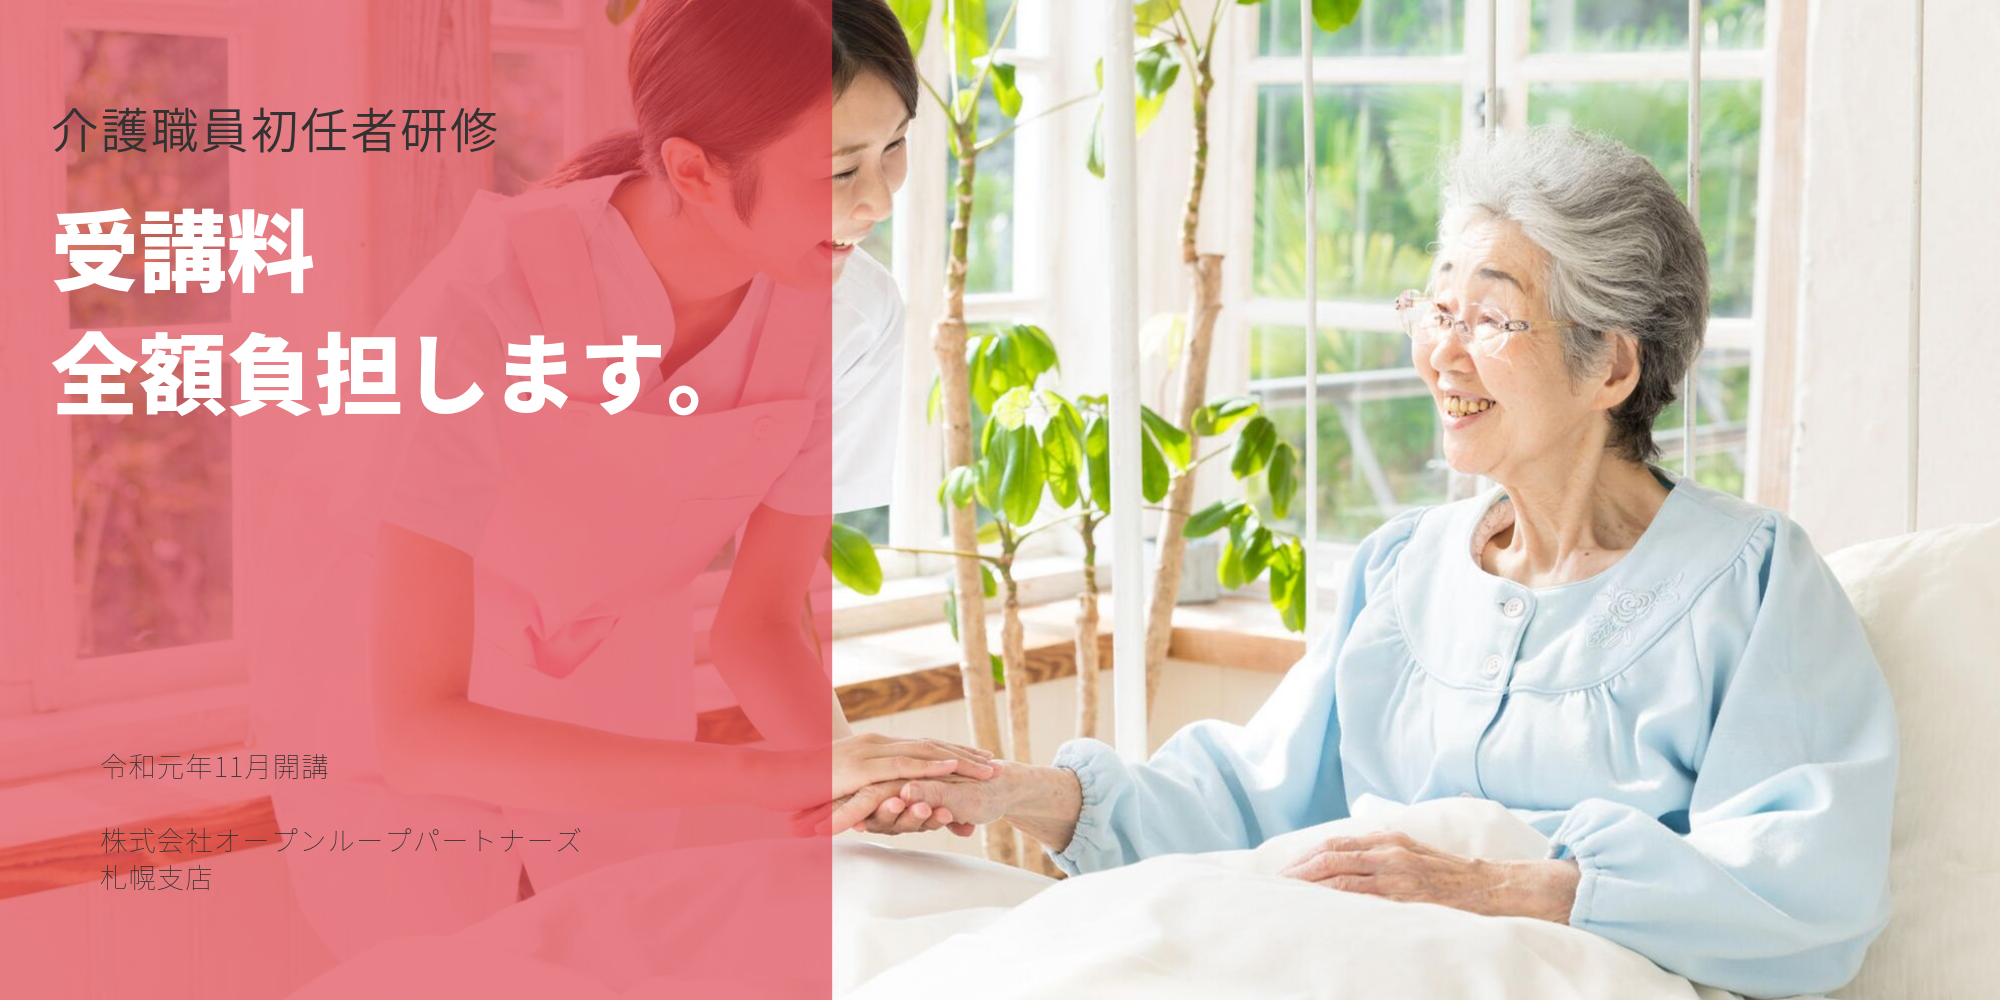
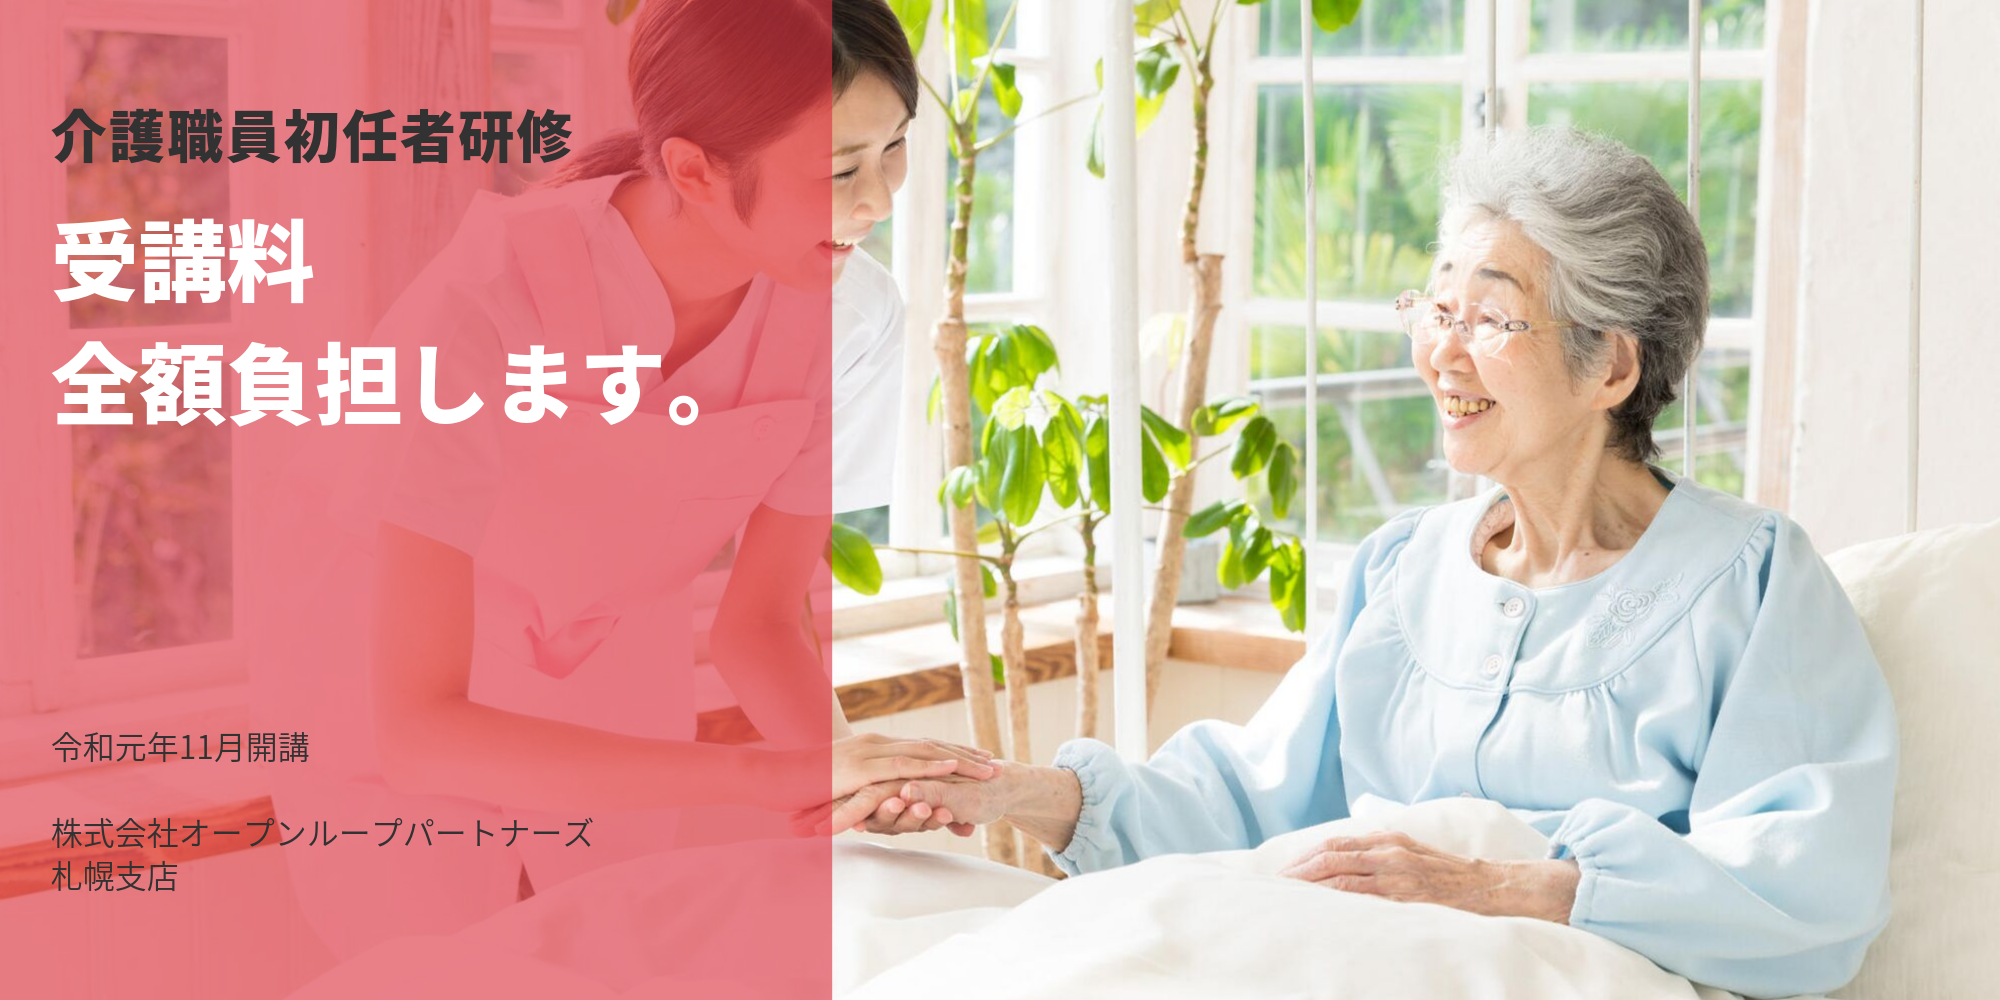
up

Changed region(s): [[0.031, 0.093, 0.372, 0.434], [0.031, 0.806, 0.279, 0.899], [0.031, 0.713, 0.155, 0.775]]

diff --git a/docs/index.html b/docs/index.html
@@ -26,6 +26,17 @@
       </div>
     </div>
   </div>
+  <div class="text-center py-3">
+    <div class="container">
+      <div class="row p-2">
+        <div class="col-md-12 border p-3">
+          <h4 class="mb-3">介護職員初任者研修の受講料金</h4>
+          <h4 class="mb-3 text-secondary">オープンループパートナーズが全額負担します！</h4>
+          <p class="small">※適用には弊社の規定に従っていただく必要があります。詳しくはお問い合わせください。</p>
+        </div>
+      </div>
+    </div>
+  </div>
   <div class="py-5 bg-white">
     <div class="container">
       <div class="row">
